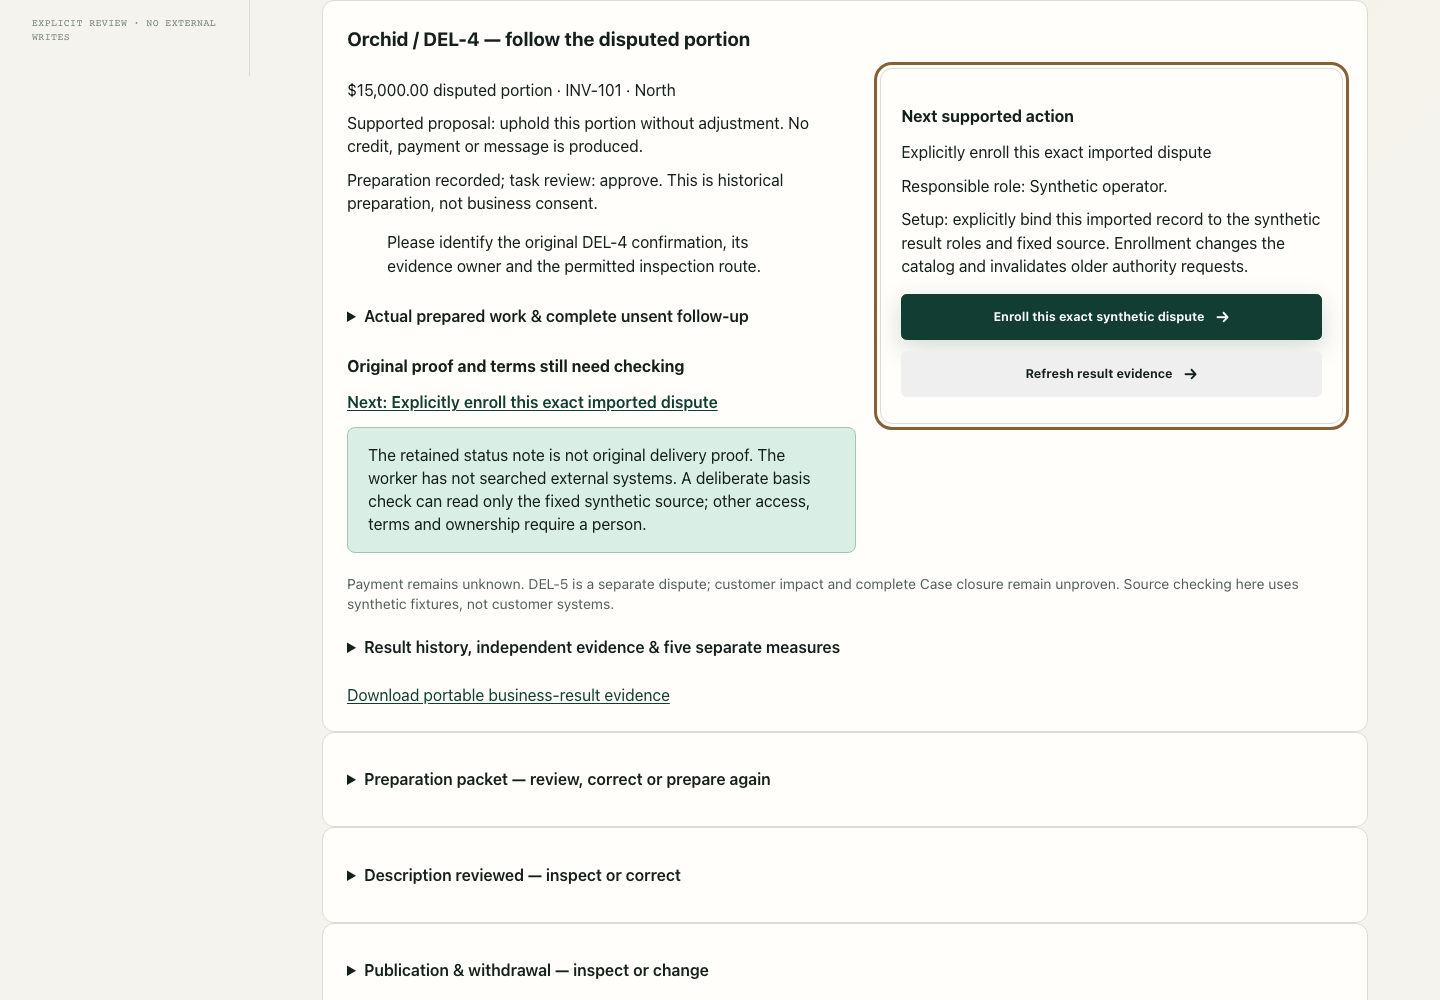
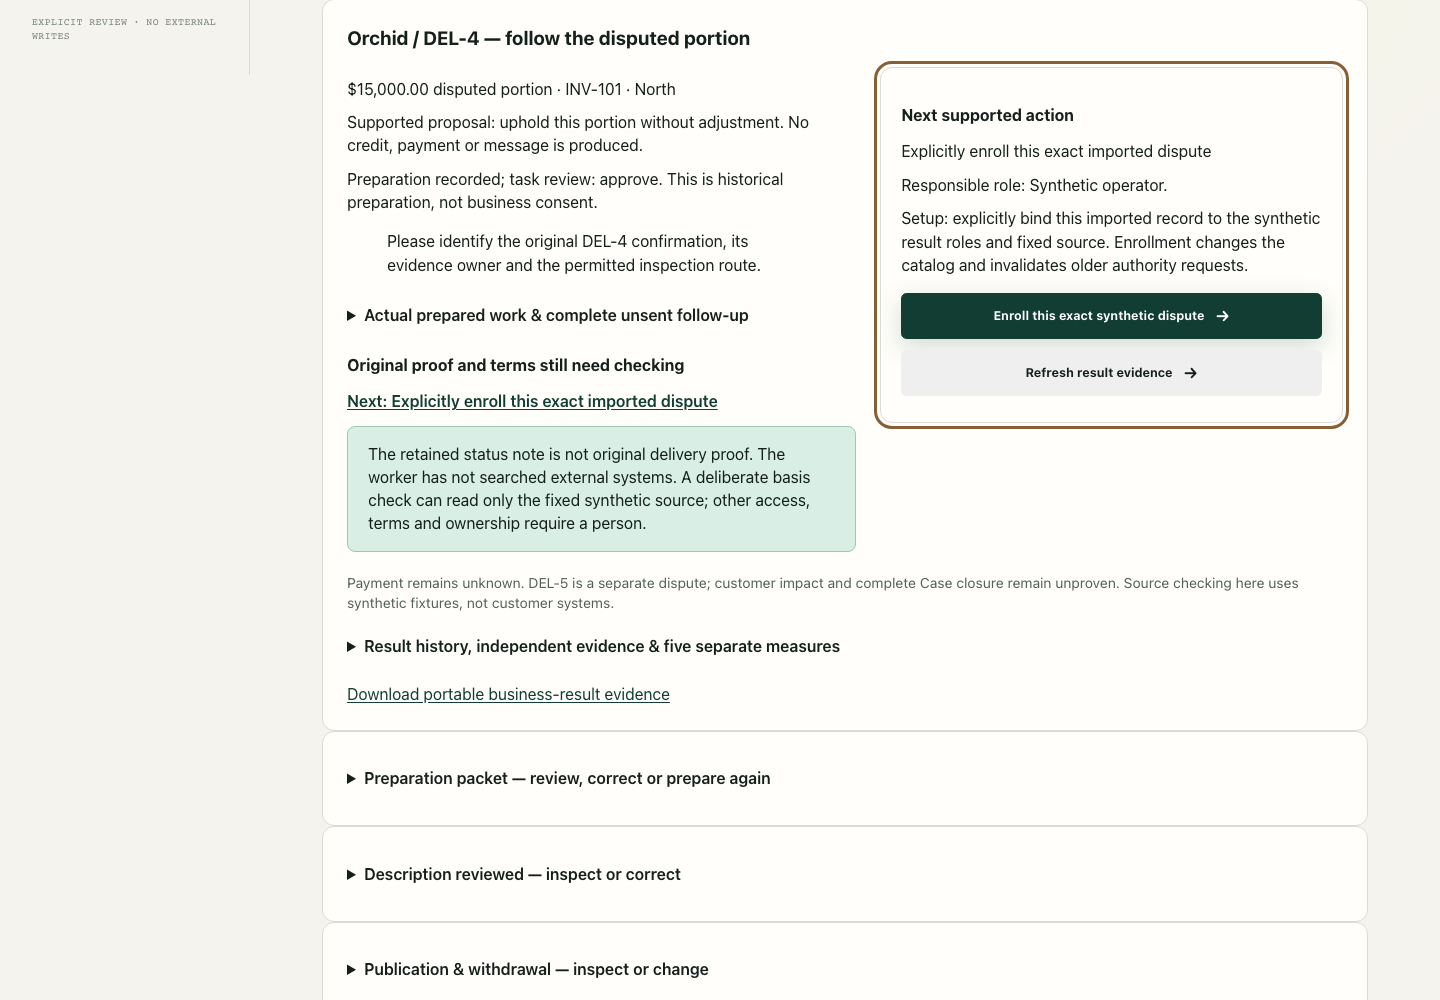
Capture settled Workbench review layouts
Use reduced motion only during screenshot capture, retain normal-motion functional actions, and refresh the inspected PNG hashes. Production behavior is unchanged.

diff --git a/STATUS.md b/STATUS.md
@@ -36,7 +36,8 @@ normal mismatch/refused acceptance, separate business review/reopen, unknown/sta
 proof, current and expired authority interventions, replacement, wrong scope, failed
 refresh, two-tab claims, lost response, restart and exact retry. Keyboard checks cover
 the skip link, disclosure, Tab navigation and direct next-action link. Desktop 1440px
-and narrow 390px captures are inspected; no Safari, screen-reader or customer study
+and narrow 390px captures are inspected. The capture helper uses reduced motion for
+settled scroll frames; all 12 browser cases pass again. No Safari, screen-reader or customer study
 is claimed. Final repository/retained-suite results and CI provenance are linked in
 the PR. Docker is absent locally; Compose/appliance claims require that CI evidence.
 Local `pnpm validate` passes **325/325**, formatting, lint, types and release checks.

diff --git a/docs/evidence/d039-workbench/README.md b/docs/evidence/d039-workbench/README.md
@@ -4,7 +4,8 @@ Actual Chromium screenshots from `scripts/dispute-result-browser.test.mjs` again
 disposable PostgreSQL 18.4/API fixtures, generated from this PR's implementation tree.
 The final commit association and final-head CI are in the PR description. No mockup,
 image generation or source-state editor was used. Viewport captures use 1440×1000
-and 390×844; controls captures show the complete existing control group at that width.
+and 390×844; controls captures show the complete existing control group at that width. Captures temporarily use the existing reduced-motion preference
+to avoid intermediate smooth-scroll frames; functional actions run with normal motion.
 The complete page captures are also supplied in the downloadable handoff.
 
 Only the first two rows use the normal shipped source. The first has both retained
